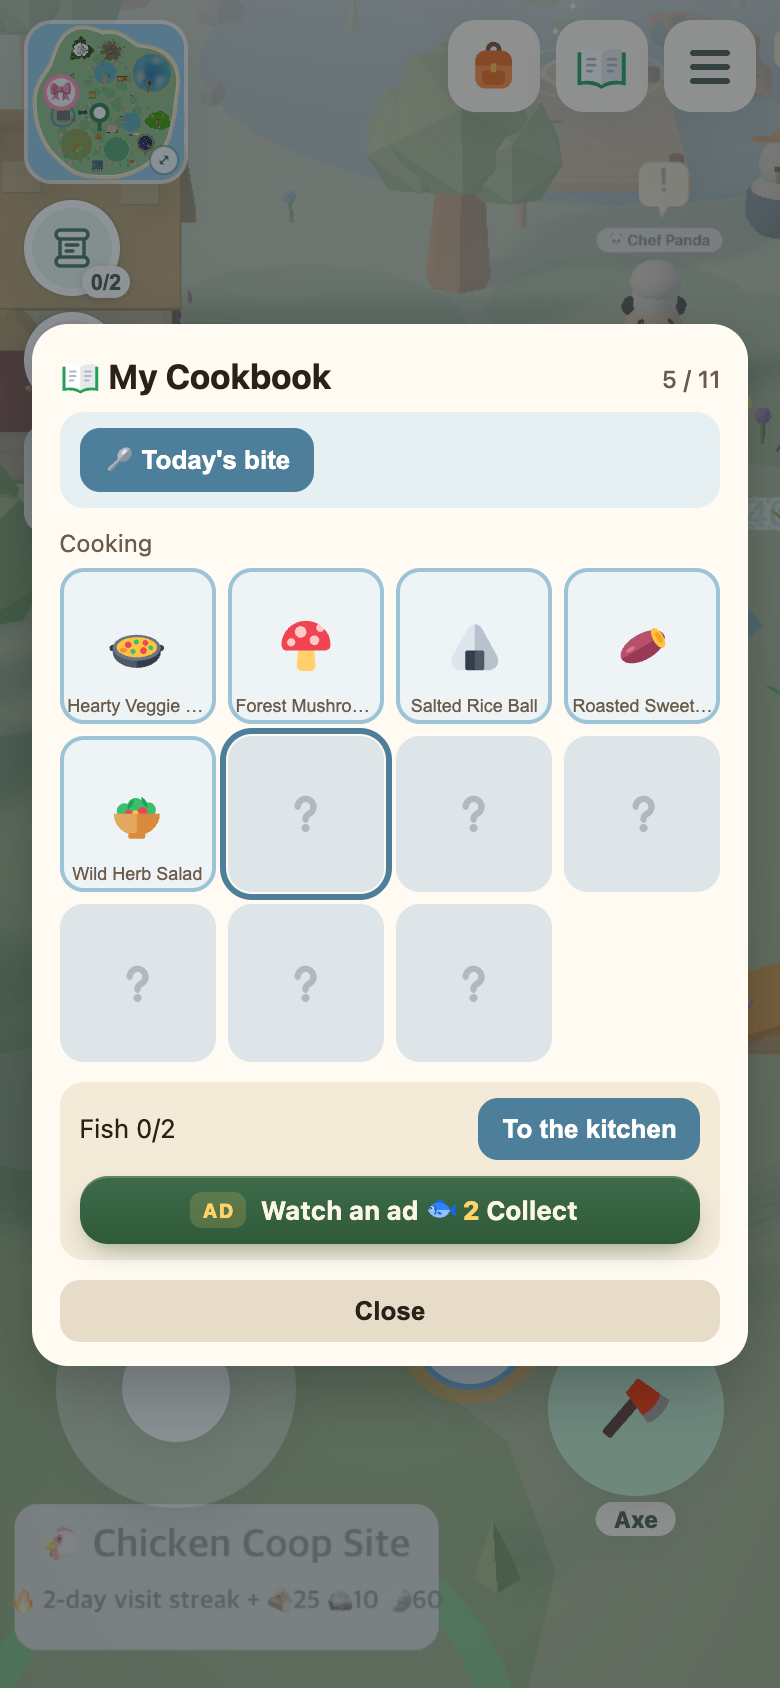
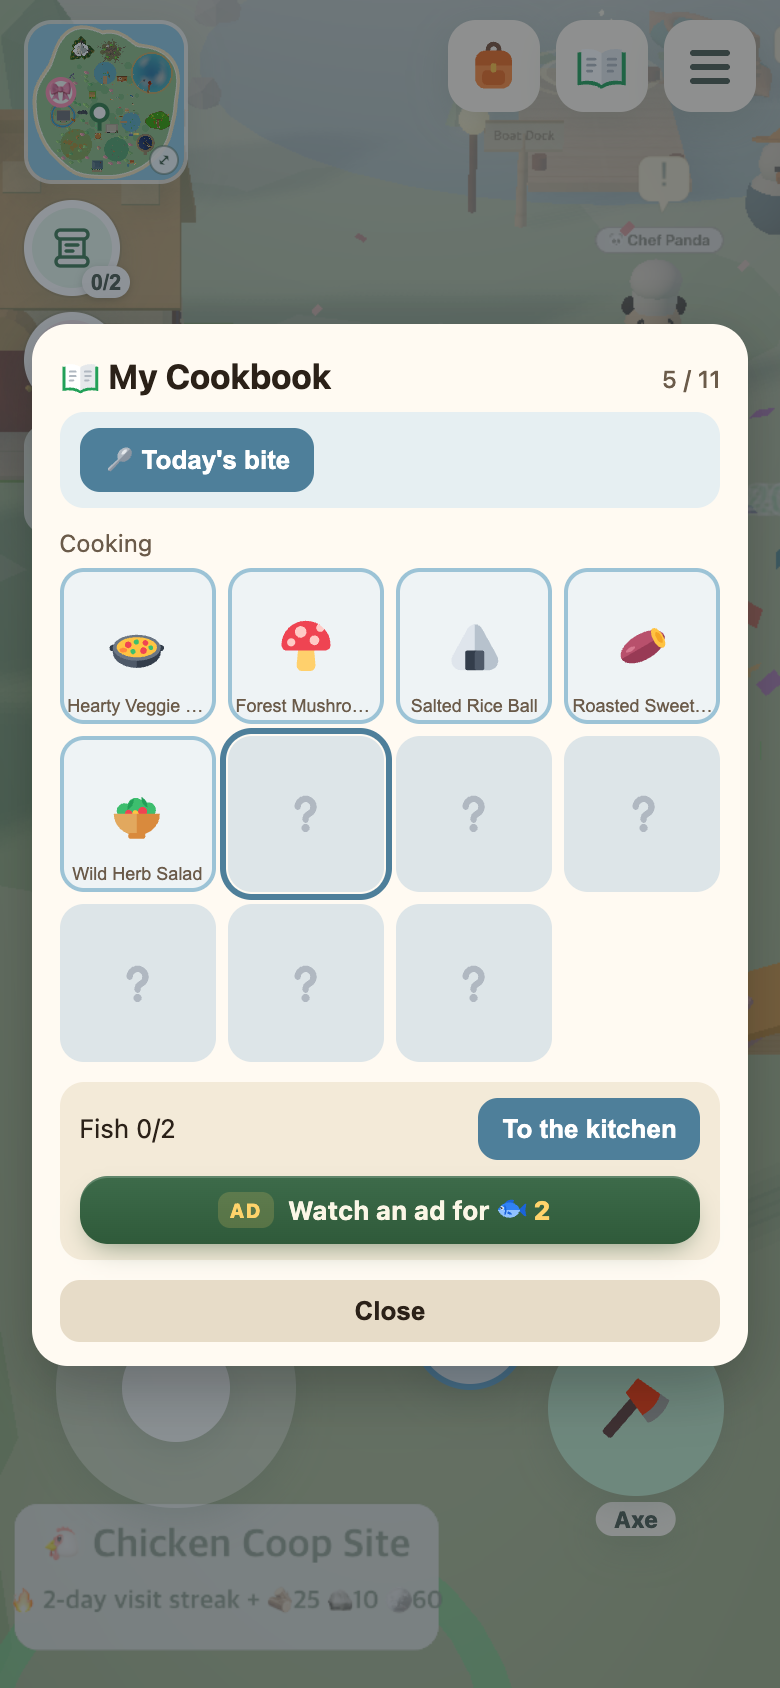
fix(copy): smoother long-table and bite toasts, English ad button reads 'Watch an ad for'

diff --git a/js/i18n-en.js b/js/i18n-en.js
@@ -3362,7 +3362,7 @@ export const EN = {
   '🪨 물가를 새로 꾸몄어요': '🪨 Your pond has a new shore',
   '🍽 마당 식탁': '🍽 Yard table',
   '🍽 마당에 식탁이 생겼어요. 만든 요리가 올라가요': '🍽 A table appeared in your yard. The dishes you cook go on it',
-  '🍽 요리가 7가지가 됐어요. 긴 식탁으로 바뀌었어요': '🍽 You have cooked 7 dishes. The table is now a long one',
+  '🍽 요리 7가지를 모았어요. 식탁이 길어졌어요': '🍽 You have cooked 7 dishes. The table got longer',
   '📖 나의 요리책': '📖 My Cookbook',
   '빈 칸을 누르면 필요한 재료가 보여요': 'Tap an empty slot to see the ingredients',
   '주방으로': 'To the kitchen',
@@ -3373,7 +3373,7 @@ export const EN = {
   '먹을 요리를 하나 골라 주세요': 'Pick a dish to taste',
   '먹기': 'Eat',
   '{0#}초 동안 힘이 나요': 'A boost for {0} seconds',
-  '🥄 한 입 먹었어요. 잠깐 힘이 나요': '🥄 You had a bite. A short boost is on',
+  '🥄 한 입 먹었어요. 힘이 조금 더 가요': '🥄 You had a bite. Your boost lasts a little longer',
   '오늘은 한 입 먹었어요. 내일 또 먹을 수 있어요': 'You had today\'s bite. Come back tomorrow for another',
   '한 입 더': 'One more bite',
   '🍽 마당에 식탁이 생겼어요. 가 보세요': '🍽 A table appeared in your yard. Go take a look',

diff --git a/js/table/copy.js b/js/table/copy.js
@@ -1,7 +1,7 @@
 export const TABLE_COPY = Object.freeze({
   prompt: '🍽 마당 식탁',
   created: '🍽 마당에 식탁이 생겼어요. 만든 요리가 올라가요',
-  long: '🍽 요리가 7가지가 됐어요. 긴 식탁으로 바뀌었어요',
+  long: '🍽 요리 7가지를 모았어요. 식탁이 길어졌어요',
   bookTitle: '📖 나의 요리책',
   bookHint: '빈 칸을 누르면 필요한 재료가 보여요',
   bookClose: '닫기',
@@ -17,7 +17,7 @@ export const TABLE_COPY = Object.freeze({
   biteHint: '먹을 요리를 하나 골라 주세요',
   biteEat: '먹기',
   biteLine: '{0}초 동안 힘이 나요',
-  biteDone: '🥄 한 입 먹었어요. 잠깐 힘이 나요',
+  biteDone: '🥄 한 입 먹었어요. 힘이 조금 더 가요',
   bitToday: '오늘은 한 입 먹었어요. 내일 또 먹을 수 있어요',
   adMore: '한 입 더',
   stepTable: '🍽 마당에 식탁이 생겼어요. 가 보세요',

diff --git a/js/guide/prepass-rules.js b/js/guide/prepass-rules.js
@@ -113,13 +113,14 @@ export function pondStageShort(stage, inv) {
 }
 
 export function shortAdParts(give, lang) {
-  const parts = ['광고 보고', ' '];
+  const en = lang === 'en';
+  const parts = ['광고 보고', en ? ' for ' : ' '];
   shortParts(Object.entries(give).map(([k, more]) => ({ k, more }))).forEach((p, i) => {
     if (i) parts.push(' · ');
     parts.push(`${p.ico} ${p.more}`);
-    if (lang !== 'en') parts.push('개');
+    if (!en) parts.push('개');
   });
-  parts.push(' ', '받기');
+  if (!en) parts.push(' ', '받기');
   return parts;
 }
 
